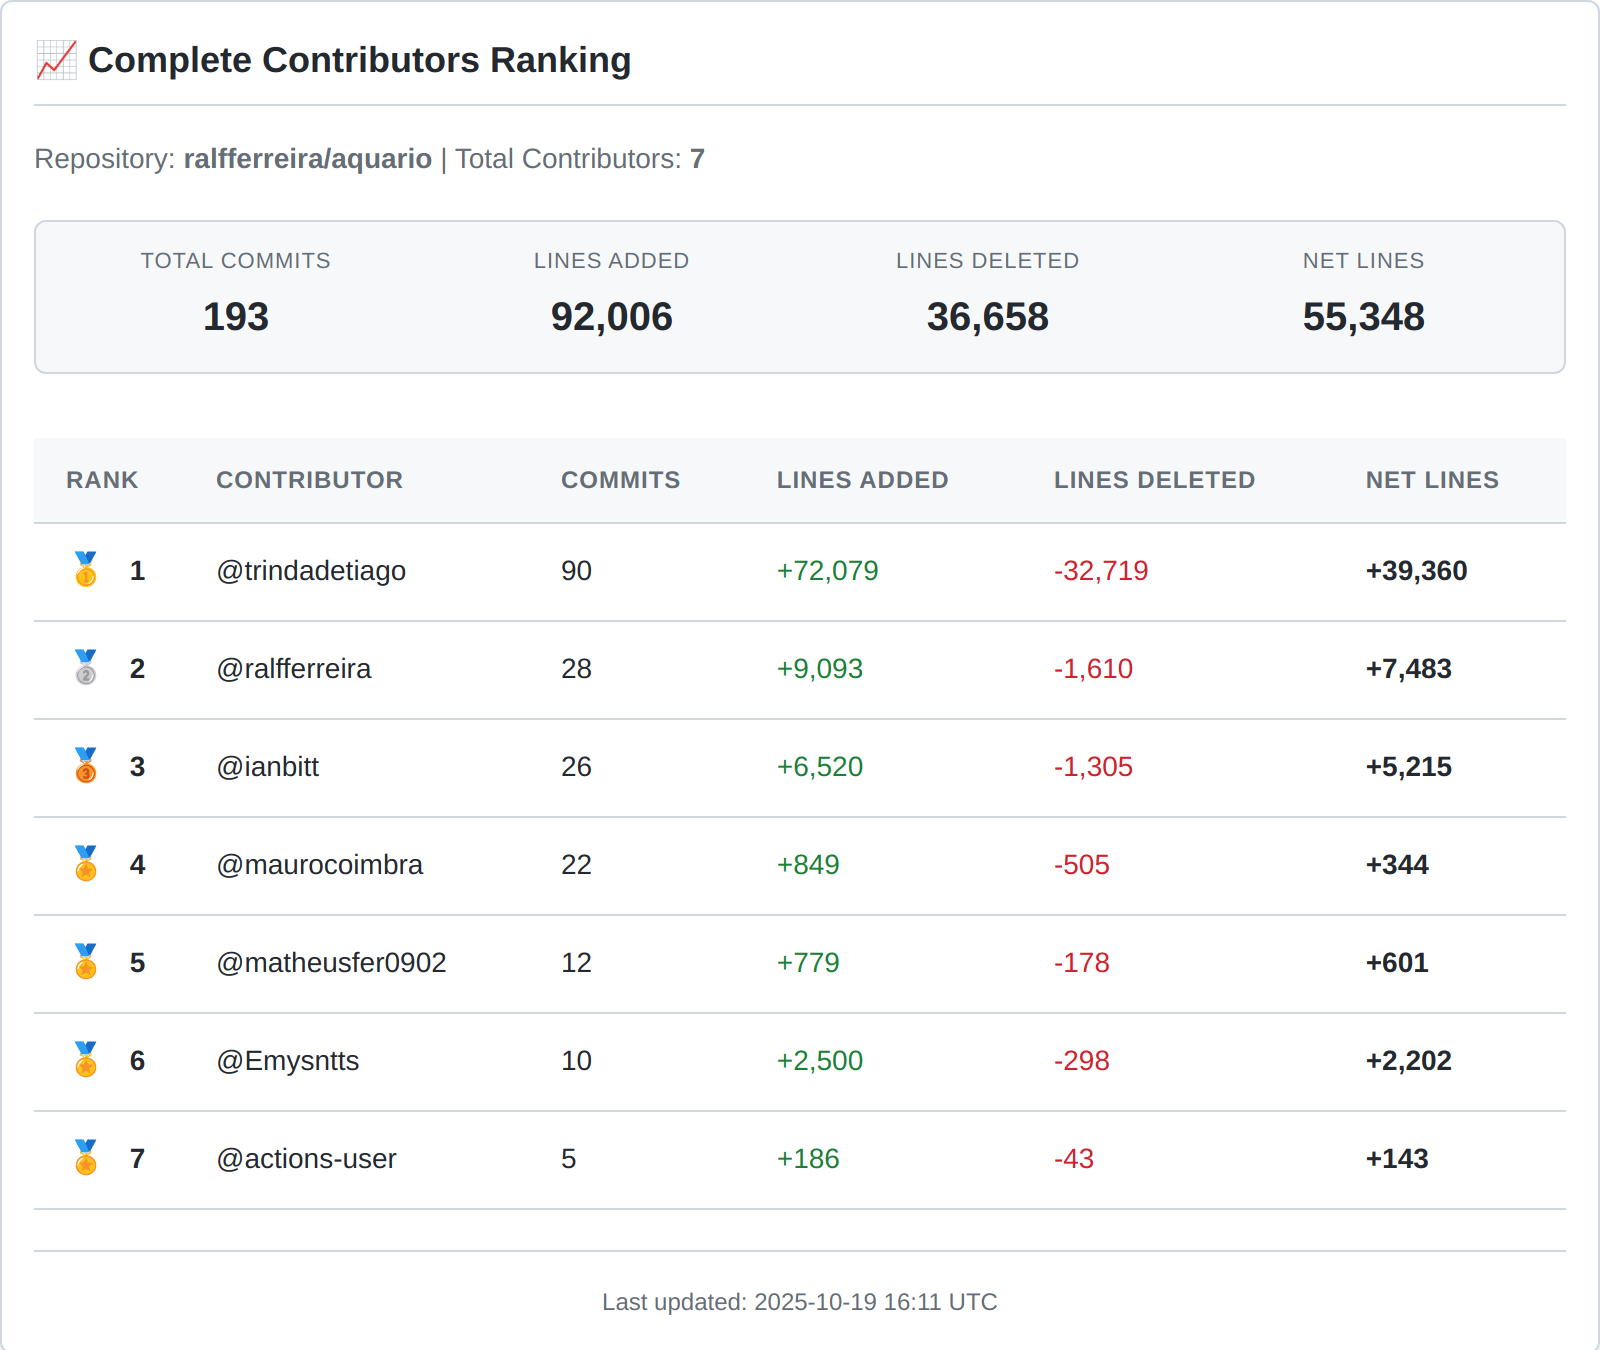
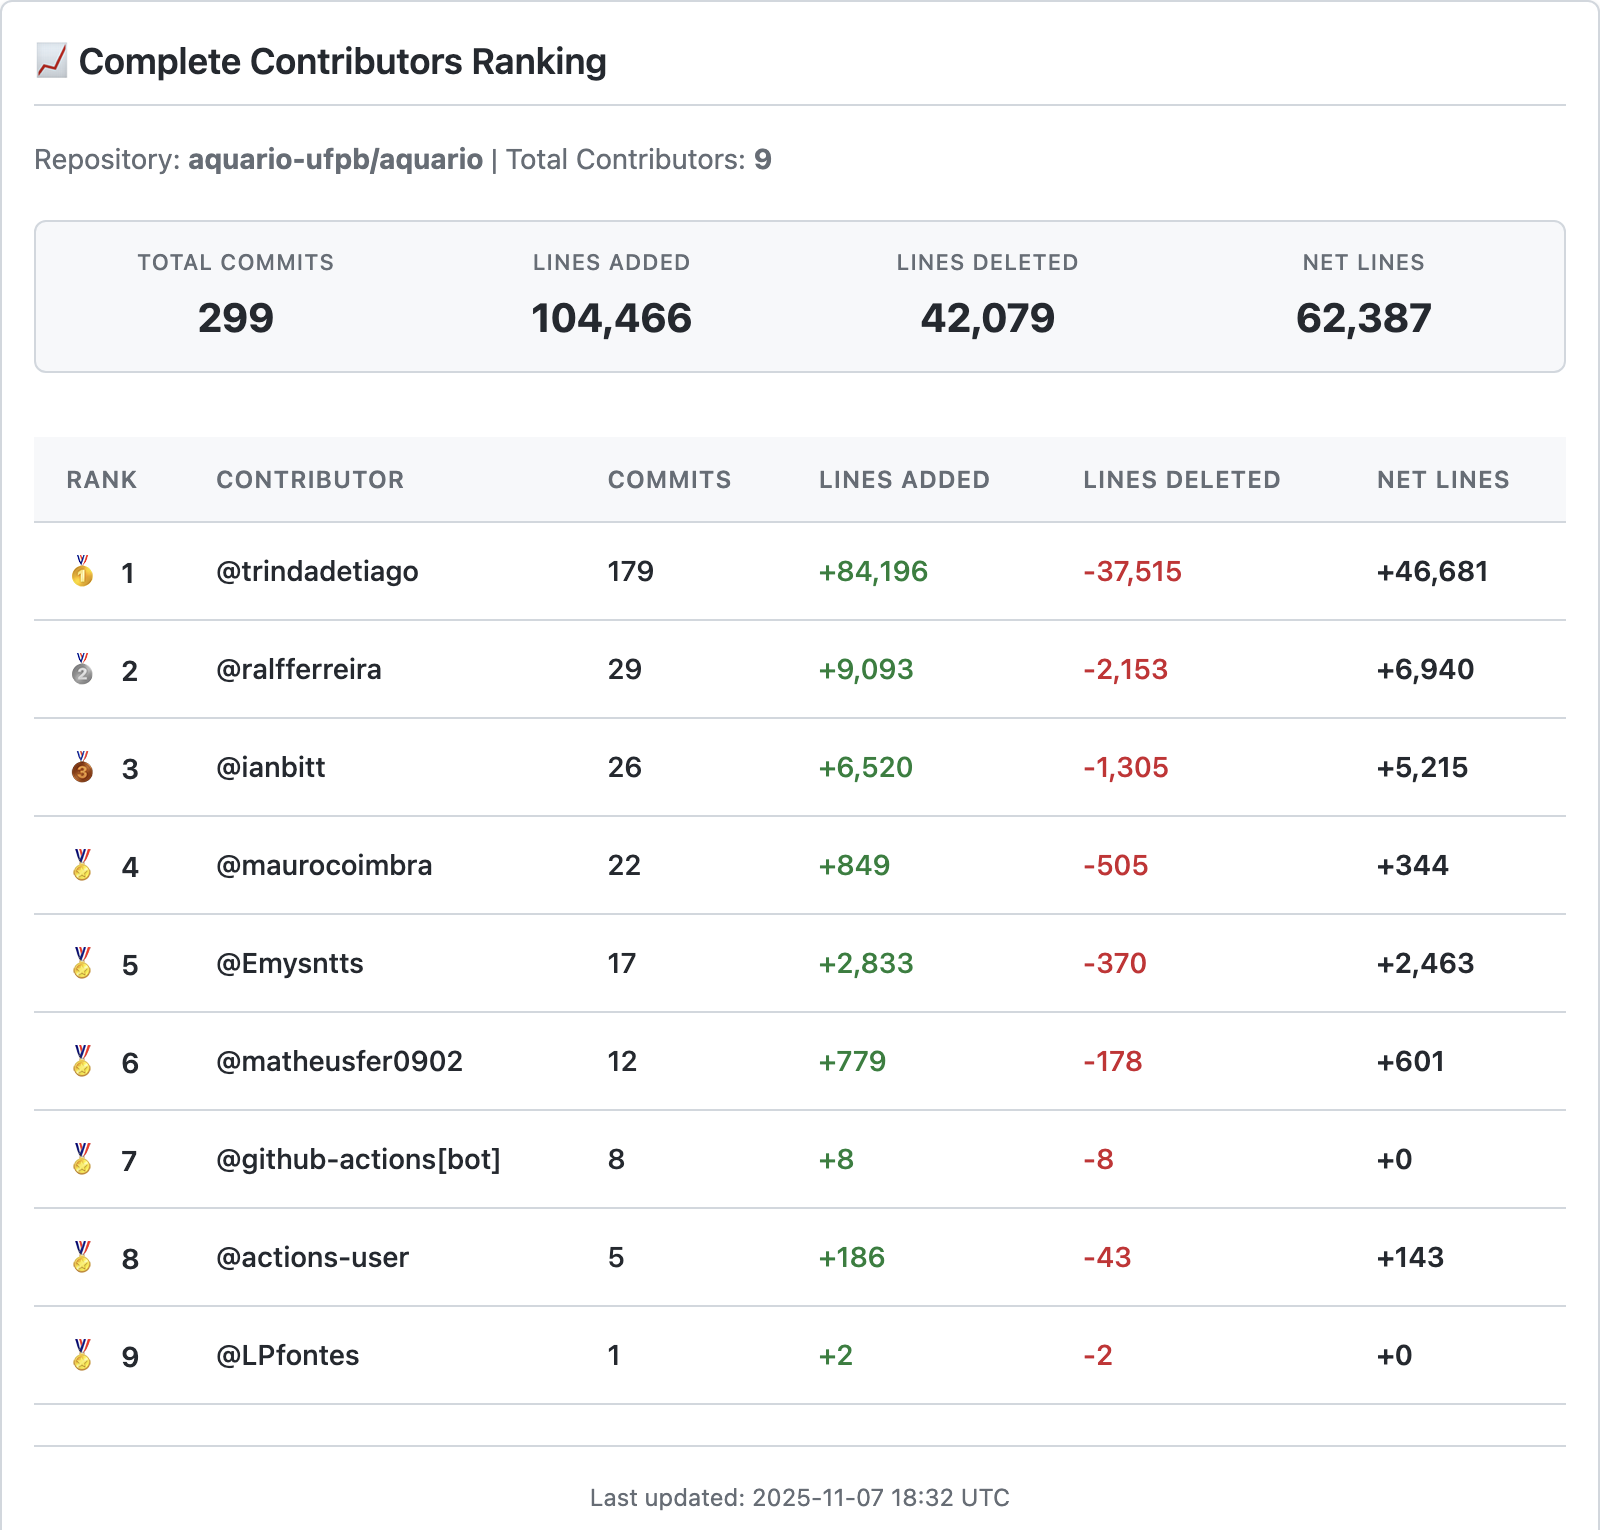
fix and update

diff --git a/scripts/generate-html-images.py b/scripts/generate-html-images.py
@@ -95,7 +95,7 @@ class HTMLStatsGenerator:
         contributors_data.sort(key=lambda x: x['commits'], reverse=True)
         
         return {
-            'repository': self.data.get('repository', 'ralfferreira/aquario'),
+            'repository': self.data.get('repository', 'aquario-ufpb/aquario'),
             'total_contributors': len(contributors),
             'total_commits': stats.get('total_commits', sum(c['commits'] for c in contributors_data)),
             'total_additions': total_additions,

diff --git a/CONTRIBUTOR_INSIGHTS.md b/CONTRIBUTOR_INSIGHTS.md
@@ -1,7 +1,7 @@
 # 📊 Contributor Insights
 
-> **Repository:** ralfferreira/aquario  
-> **Last Updated:** Sunday, October 19, 2025 at 04:11 PM  
+> **Repository:** aquario-ufpb/aquario  
+> **Last Updated:** Friday, November 7, 2025 at 06:32 PM  
 > **Generated by:** [GitHub Action](.github/workflows/contributor-insights.yml)
 
 ---
@@ -10,12 +10,12 @@
 
 | Metric | Value |
 |--------|-------|
-| **Total Contributors** | 7 |
-| **Total Commits** | 193 |
-| **Total Lines Added** | +92,006 |
-| **Total Lines Deleted** | -36,658 |
-| **Net Lines Changed** | +55,348 |
-| **Average Commits per Contributor** | 28 |
+| **Total Contributors** | 9 |
+| **Total Commits** | 299 |
+| **Total Lines Added** | +104,466 |
+| **Total Lines Deleted** | -42,079 |
+| **Net Lines Changed** | +62,387 |
+| **Average Commits per Contributor** | 33 |
 | **Most Active Contributor** | [@trindadetiago](https://github.com/trindadetiago) |
 | **Activity Trend** | 📈 increasing |
 
@@ -25,33 +25,35 @@
 
 | Rank | Contributor | Commits | Lines Added | Lines Deleted | Net Lines |
 |------|-------------|---------|-------------|---------------|-----------|
-| 🥇 1 | [@trindadetiago](https://github.com/trindadetiago) | 90 | +72,079 | -32,719 | +39,360 |
-| 🥈 2 | [@ralfferreira](https://github.com/ralfferreira) | 28 | +9,093 | -1,610 | +7,483 |
+| 🥇 1 | [@trindadetiago](https://github.com/trindadetiago) | 179 | +84,196 | -37,515 | +46,681 |
+| 🥈 2 | [@ralfferreira](https://github.com/ralfferreira) | 29 | +9,093 | -2,153 | +6,940 |
 | 🥉 3 | [@ianbitt](https://github.com/ianbitt) | 26 | +6,520 | -1,305 | +5,215 |
 | 🏅 4 | [@maurocoimbra](https://github.com/maurocoimbra) | 22 | +849 | -505 | +344 |
-| 🏅 5 | [@matheusfer0902](https://github.com/matheusfer0902) | 12 | +779 | -178 | +601 |
+| 🏅 5 | [@Emysntts](https://github.com/Emysntts) | 17 | +2,833 | -370 | +2,463 |
 
 ---
 
 ## 📈 Activity Analysis
 
 ### Weekly Activity Highlights
-- **Most Active Week:** 2025-10-12 (67 commits by 7 contributors)
-- **Least Active Week:** 2024-07-21 (1 commits by 7 contributors)
+- **Most Active Week:** 2025-10-12 (67 commits by 9 contributors)
+- **Least Active Week:** 2024-07-21 (1 commits by 9 contributors)
 
 ### Recent Activity (Last 4 Weeks)
-- **Total Commits:** 76
-- **Average per Week:** 19
-- **Weeks with Activity:** 3/4
-- **Lines Added:** +46,101
-- **Lines Deleted:** -25,072
-- **Net Lines:** +21,029
+- **Total Commits:** 179
+- **Average per Week:** 44.8
+- **Weeks with Activity:** 4/4
+- **Lines Added:** +58,179
+- **Lines Deleted:** -30,450
+- **Net Lines:** +27,729
 
 ---
 
 ## 🆕 Recent Contributors
 
+- [@github-actions[bot]](https://github.com/github-actions[bot]) - 8 commits (first commit: 2025-10-19)
 - [@actions-user](https://github.com/actions-user) - 5 commits (first commit: 2025-10-12)
+- [@LPfontes](https://github.com/LPfontes) - 1 commits (first commit: 2025-11-02)
 
 ---
 
@@ -59,10 +61,10 @@
 
 | Range | Contributors | Percentage |
 |-------|-------------|------------|
-| 1-5 commits | 1 | 14% |
-| 6-20 commits | 2 | 29% |
-| 21-50 commits | 3 | 43% |
-| 51-100 commits | 1 | 14% |
+| 1-5 commits | 2 | 22% |
+| 6-20 commits | 3 | 33% |
+| 21-50 commits | 3 | 33% |
+| 100+ commits | 1 | 11% |
 
 ---
 
@@ -70,9 +72,9 @@
 
 | Period | Commits | Contributors | Activity Level |
 |--------|---------|-------------|----------------|
-| **Last 4 weeks** | 76 | 3 active | 19 avg/week |
-| **Last 8 weeks** | 96 | 4 active | 12 avg/week |
-| **All time** | 193 | 7 | 7 avg/week |
+| **Last 4 weeks** | 179 | 4 active | 44.8 avg/week |
+| **Last 8 weeks** | 202 | 6 active | 25.3 avg/week |
+| **All time** | 299 | 9 | 10 avg/week |
 
 ---
 
@@ -80,7 +82,7 @@
 
 This report is automatically generated every **Sunday at 2 AM UTC** by a GitHub Action. You can also trigger it manually from the Actions tab.
 
-**Last run:** 2025-10-19T16:11:08.748Z
+**Last run:** 2025-11-07T21:32:54.148Z
 
 ---
 

diff --git a/README.md b/README.md
@@ -1,6 +1,6 @@
 # 📊 Aquário Stats
 
-> Gerador automático de estatísticas de contribuidores para o repositório [Aquário](https://github.com/ralfferreira/aquario)
+> Gerador automático de estatísticas de contribuidores para o repositório [Aquário](https://github.com/aquario-ufpb/aquario)
 
 ## 🎯 Sobre
 
@@ -56,7 +56,7 @@ aquario-stats/
 
 ### 1. **Coleta de Dados** (`fetch-contributors.js`)
 - Conecta à API do GitHub
-- Busca dados completos dos contribuidores do repositório `ralfferreira/aquario`
+- Busca dados completos dos contribuidores do repositório `aquario-ufpb/aquario`
 - Salva os dados em arquivos JSON para processamento
 
 ### 2. **Geração de Insights** (`generate-insights.js`)
@@ -84,7 +84,7 @@ O script gera um arquivo `CONTRIBUTOR_INSIGHTS.md` com:
 ```markdown
 # 📊 Contributor Insights
 
-> **Repository:** ralfferreira/aquario  
+> **Repository:** aquario-ufpb/aquario  
 > **Last Updated:** Sunday, January 12, 2025 at 02:00 AM  
 
 ## 🎯 Overview
@@ -126,7 +126,7 @@ O script gera um arquivo `CONTRIBUTOR_INSIGHTS.md` com:
 
 ```bash
 # Buscar dados dos contribuidores
-node scripts/fetch-contributors.js ralfferreira aquario
+node scripts/fetch-contributors.js aquario-ufpb aquario
 
 # Gerar insights
 node scripts/generate-insights.js
@@ -147,7 +147,7 @@ O workflow é executado automaticamente:
 Para integrar as estatísticas ao repositório principal do Aquário:
 
 1. **Copie o conteúdo** do arquivo `CONTRIBUTOR_INSIGHTS.md` gerado
-2. **Cole no README** ou crie uma seção dedicada no repositório `ralfferreira/aquario`
+2. **Cole no README** ou crie uma seção dedicada no repositório `aquario-ufpb/aquario`
 3. **Inclua as imagens** da pasta `images/` para visualizações
 4. **Atualize periodicamente** ou configure webhook para atualização automática
 
